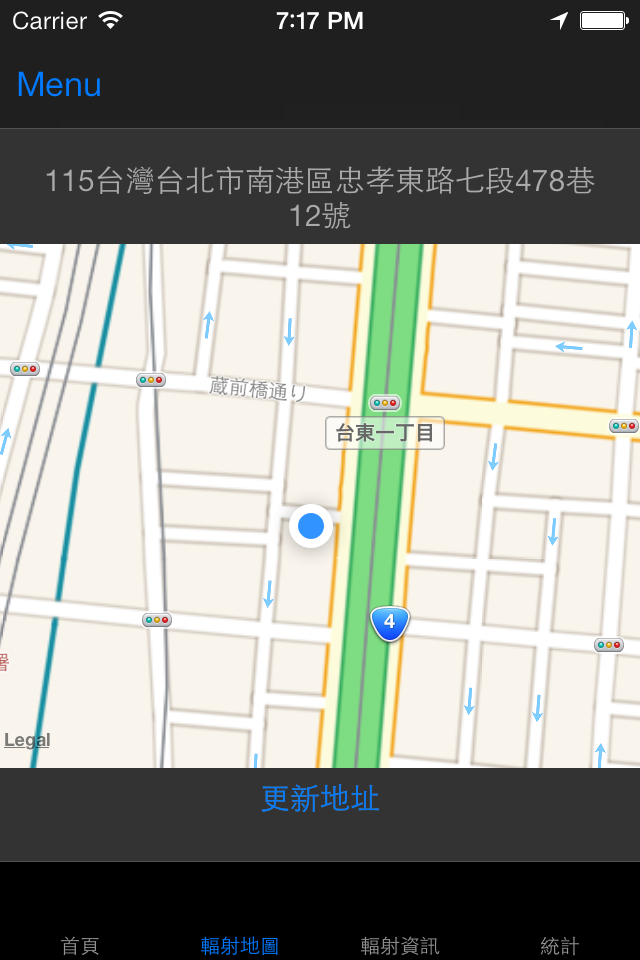
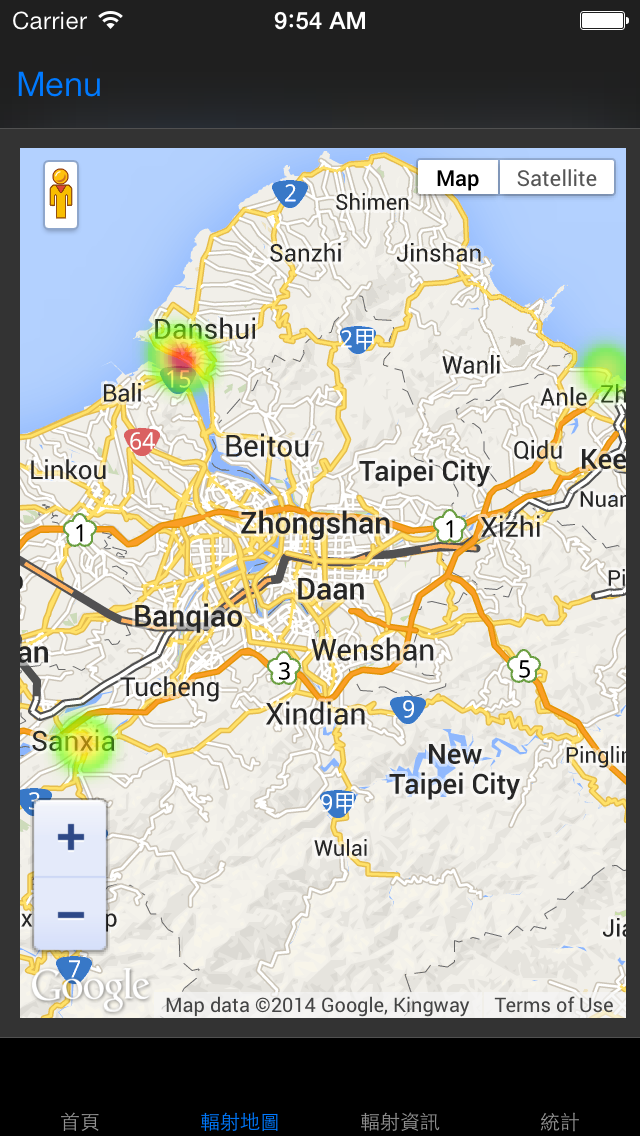
Change MapView to WebView

diff --git a/TWRadiationApp/View/RadiationMapViewController.m b/TWRadiationApp/View/RadiationMapViewController.m
@@ -6,7 +6,8 @@
 //  Copyright (c) 2014年 g0v.tw. All rights reserved.
 //
 
-#import "RadiatonMapViewController.h"
+#import "RadiationMapViewController.h"
+#import "TWRadiationConstant.h"
 
 @interface RadiatonMapViewController ()
 
@@ -18,20 +19,21 @@
 {
     [super viewDidLoad];
     // Do any additional setup after loading the view.
-    locationManager = [[CLLocationManager alloc] init];
+/*    locationManager = [[CLLocationManager alloc] init];
     locationManager.delegate = self;
     locationManager.distanceFilter = kCLDistanceFilterNone;
     locationManager.desiredAccuracy = kCLLocationAccuracyBest;
     
     [mapView setDelegate:self];
-    [mapView setShowsUserLocation:YES];
+    [mapView setShowsUserLocation:YES];*/
+    [webView loadRequest:[NSURLRequest requestWithURL:[NSURL URLWithString:WEB_HOMEPAGE]]];
 }
 
 - (void)viewDidAppear:(BOOL)animated
 {
     [super viewDidAppear:animated];
     [currentAddress setText:@""];
-    [locationManager startUpdatingLocation];
+//    [locationManager startUpdatingLocation];
 }
 
 - (void)didReceiveMemoryWarning
@@ -40,7 +42,16 @@
     // Dispose of any resources that can be recreated.
 }
 
-//TODO - need to rework it to use iOS APIs
+#pragma mark - UIWebViewDelegate methods
+- (void)webViewDidStartLoad:(UIWebView *)webView {
+    [loadingIndicator startAnimating];
+}
+
+- (void)webViewDidFinishLoad:(UIWebView *)webView {
+    [loadingIndicator stopAnimating];
+}
+
+/*
 - (void)askAddressByLocation:(CLLocation*) location {
     CLGeocoder *geoCoder = [[CLGeocoder alloc] init];
     [geoCoder reverseGeocodeLocation:location completionHandler:^(NSArray *placemarks, NSError *error) {
@@ -113,8 +124,7 @@
     MKCoordinateRegion region = MKCoordinateRegionMakeWithDistance(loc, 250, 250);
     [mapView setRegion:region animated:YES];
 }
-
-/*
+ 
 #pragma mark - Navigation
 
 // In a storyboard-based application, you will often want to do a little preparation before navigation

diff --git a/TWRadiationApp/View/RadiationMapViewController.h b/TWRadiationApp/View/RadiationMapViewController.h
@@ -1,0 +1,23 @@
+//
+//  RadiatonMapViewController.h
+//  TWRadiationApp
+//
+//  Created by Kent Huang on 2014/4/19.
+//  Copyright (c) 2014年 g0v.tw. All rights reserved.
+//
+
+#import <UIKit/UIKit.h>
+//#import <CoreLocation/CoreLocation.h>
+//#import <MapKit/MapKit.h>
+
+@interface RadiatonMapViewController : UIViewController <UIWebViewDelegate>{
+//    CLLocationManager *locationManager;
+//    IBOutlet MKMapView *mapView;
+    IBOutlet UILabel* currentAddress;
+    IBOutlet UIWebView *webView;
+    IBOutlet UIActivityIndicatorView *loadingIndicator;
+}
+
+//- (IBAction)pushUpdateAddressButton:(id)sender;
+
+@end

diff --git a/TWRadiationApp/TWRadiationConstant.h b/TWRadiationApp/TWRadiationConstant.h
@@ -1,0 +1,9 @@
+//
+//  TWRadiationConstant.h
+//  TWRadiationApp
+//
+//  Created by Charles Lu on 14/6/5.
+//  Copyright (c) 2014年 g0v.tw. All rights reserved.
+//
+
+#define WEB_HOMEPAGE @"http://testheadmap.appspot.com"
